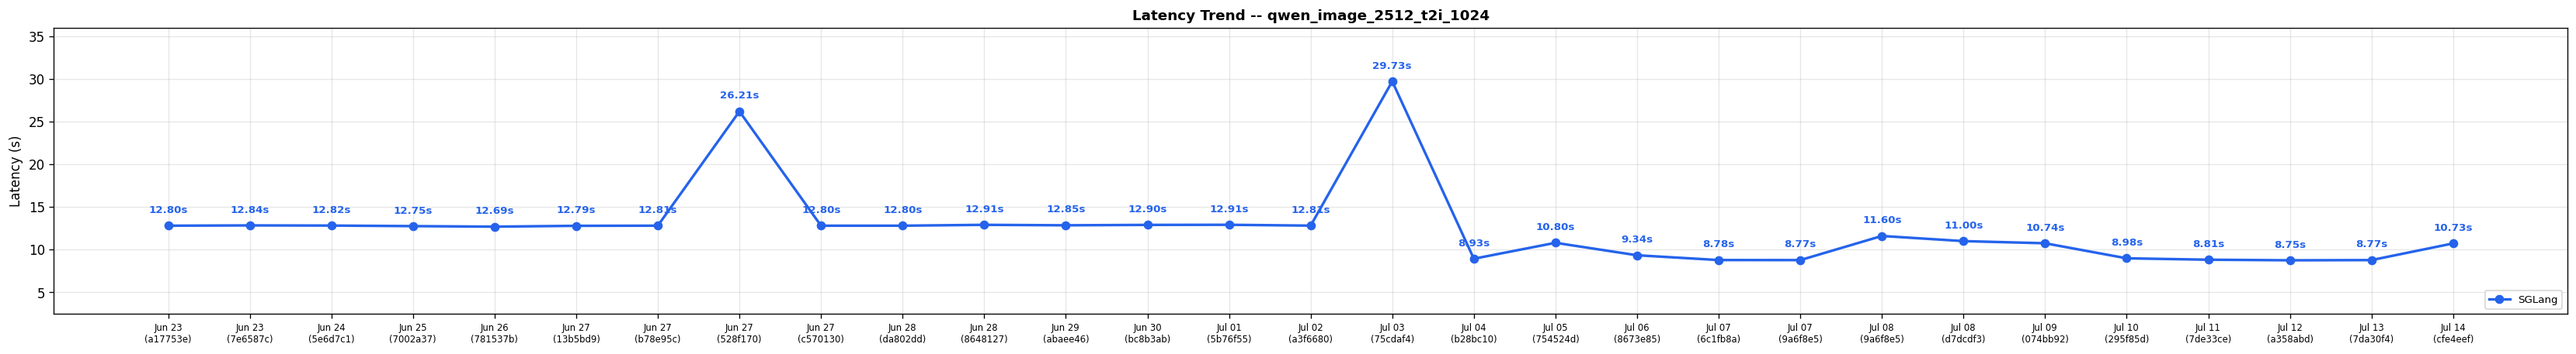
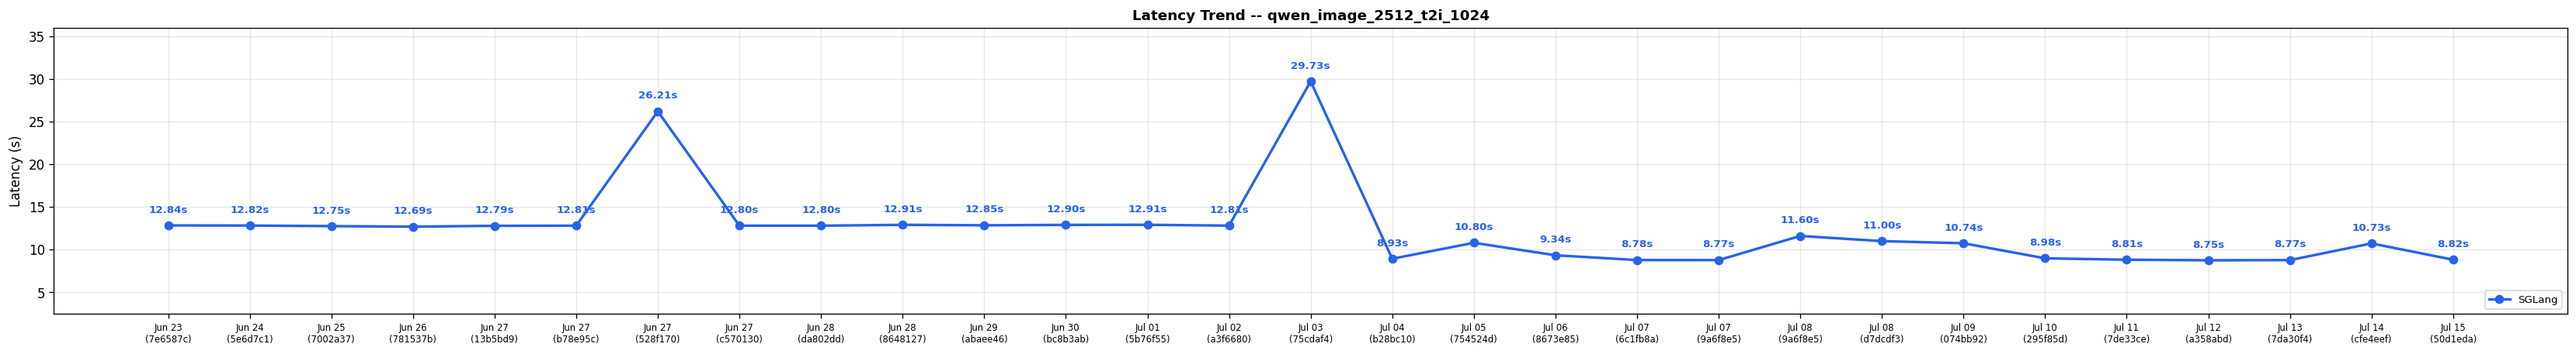
Diffusion comparison results for run 29379578503 (#716)

diff --git a/diffusion-comparisons/dashboard.md b/diffusion-comparisons/dashboard.md
@@ -1,29 +1,22 @@
 # SGLang-Diffusion Nightly Performance Dashboard
 
-*Generated: Jul 14 | Commit: `cfe4eef`*
-
-> [!WARNING]
-> **Performance Regression Detected**
->
-> - **qwen_image_2512_t2i_1024** (sglang): 8.77s -> 10.73s (+22.3%)
-> - **ltx2.3_twostage_ti2v_2gpus** (sglang): 13.05s -> 17.08s (+30.8%)
-
+*Generated: Jul 15 | Commit: `50d1eda`*
 
 ## SGLang-Diffusion Performance
 
 | Model | Risk | sglang (s) |
 |-------|------|---------|
-| FLUX.1-dev | ✅ | **4.87** |
-| FLUX.2-dev | ✅ | **14.47** |
-| Qwen-Image-2512 | ⚠ | **10.73** |
-| Qwen-Image-Edit-2511 | ✅ | **15.40** |
-| Z-Image-Turbo | ✅ | **0.84** |
-| Wan2.2-T2V-A14B-Diffusers | ✅ | **210.71** |
-| Wan2.2-TI2V-5B-Diffusers | ✅ | **65.23** |
-| LTX-2.3 | ⚠ | **17.08** |
-| ideogram-4-fp8 | ✅ | **5.36** |
-| Cosmos3-Super | ✅ | **115.38** |
-| Wan2.2-I2V-A14B-Diffusers | ✅ | **204.63** |
+| FLUX.1-dev | ✅ | **4.83** |
+| FLUX.2-dev | ✅ | **14.32** |
+| Qwen-Image-2512 | ✅ | **8.82** |
+| Qwen-Image-Edit-2511 | ✅ | **15.32** |
+| Z-Image-Turbo | ✅ | **0.82** |
+| Wan2.2-T2V-A14B-Diffusers | ✅ | **209.74** |
+| Wan2.2-TI2V-5B-Diffusers | ✅ | **64.24** |
+| LTX-2.3 | ✅ | **13.06** |
+| ideogram-4-fp8 | ✅ | **5.44** |
+| Cosmos3-Super | ✅ | **114.33** |
+| Wan2.2-I2V-A14B-Diffusers | ✅ | **203.70** |
 
 ### Latency Trend: flux1_dev_t2i_1024
 
@@ -84,6 +77,7 @@
 
 | Date | Commit | flux1_dev_t2i_1024 (s) | flux2_dev_t2i_1024 (s) | qwen_image_2512_t2i_1024 (s) | qwen_image_edit_2511 (s) | zimage_turbo_t2i_1024 (s) | wan22_t2v_a14b_720p (s) | wan22_ti2v_5b_720p (s) | ltx2.3_twostage_ti2v_2gpus (s) | ideogram4_fp8_t2i_2gpu (s) | cosmos3_super_t2v_2gpu (s) | wan22_i2v_a14b_720p (s) | Trend |
 |------|--------|---------|---------|---------|---------|---------|---------|---------|---------|---------|---------|---------|-------|
+| Jul 15 | `50d1eda` | 4.83 | 14.32 | 8.82 | 15.32 | 0.82 | 209.74 | 64.24 | 13.06 | 5.44 | 114.33 | 203.70 | :left_right_arrow:  :left_right_arrow:  :arrow_down:  :left_right_arrow:  :arrow_down:  :left_right_arrow:  :left_right_arrow:  :arrow_down:  :left_right_arrow:  :left_right_arrow:  :left_right_arrow: |
 | Jul 14 | `cfe4eef` | 4.87 | 14.47 | 10.73 | 15.40 | 0.84 | 210.71 | 65.23 | 17.08 | 5.36 | 115.38 | 204.63 | :left_right_arrow:  :left_right_arrow:  :arrow_up:  :left_right_arrow:  :arrow_up:  :left_right_arrow:  :left_right_arrow:  :arrow_up:  :left_right_arrow:  :left_right_arrow:  :left_right_arrow: |
 | Jul 13 | `7da30f4` | 4.83 | 14.38 | 8.77 | 15.27 | 0.81 | 209.59 | 64.19 | 13.05 | 5.31 | 115.36 | 204.64 | :left_right_arrow:  :left_right_arrow:  :left_right_arrow:  :left_right_arrow:  :left_right_arrow:  :left_right_arrow:  :left_right_arrow:  :left_right_arrow:  :left_right_arrow:  :left_right_arrow:  :left_right_arrow: |
 | Jul 12 | `a358abd` | 4.84 | 14.35 | 8.75 | 15.28 | 0.81 | 209.68 | 64.18 | 13.06 | 5.32 | 114.39 | 203.71 | :left_right_arrow:  :left_right_arrow:  :left_right_arrow:  :left_right_arrow:  :left_right_arrow:  :left_right_arrow:  :left_right_arrow:  :left_right_arrow:  :left_right_arrow:  :arrow_down:  :left_right_arrow: |
@@ -112,16 +106,7 @@
 | Jun 26 | `781537b` | 4.63 | 15.76 | 12.69 | 23.60 | 0.82 | 208.96 | 64.24 | 14.05 | N/A | N/A | 205.62 | :left_right_arrow:  :arrow_up:  :left_right_arrow:  :left_right_arrow:  :arrow_up:  :left_right_arrow:  :left_right_arrow:  :arrow_down:    :left_right_arrow: |
 | Jun 25 | `7002a37` | 4.68 | 14.32 | 12.75 | 23.62 | 0.66 | 209.34 | 64.22 | 15.06 | N/A | N/A | 204.64 | :left_right_arrow:  :left_right_arrow:  :left_right_arrow:  :left_right_arrow:  :arrow_up:  :left_right_arrow:  :left_right_arrow:  :arrow_up:    :left_right_arrow: |
 | Jun 24 | `5e6d7c1` | 4.68 | 14.36 | 12.82 | 23.75 | 0.64 | 209.73 | 65.22 | 14.06 | N/A | N/A | 205.65 | :left_right_arrow:  :left_right_arrow:  :left_right_arrow:  :left_right_arrow:  :left_right_arrow:  :left_right_arrow:  :left_right_arrow:  :left_right_arrow:    :left_right_arrow: |
-| Jun 23 | `7e6587c` | 4.68 | 14.35 | 12.84 | 23.79 | 0.64 | 209.91 | 65.20 | 14.05 | N/A | N/A | 205.65 | :left_right_arrow:  :left_right_arrow:  :left_right_arrow:  :left_right_arrow:  :left_right_arrow:  :left_right_arrow:  :left_right_arrow:  :left_right_arrow:    :left_right_arrow: |
-| Jun 23 | `a17753e` | 4.68 | 14.34 | 12.80 | 23.72 | 0.64 | 211.07 | 65.22 | 14.05 | N/A | N/A | 205.68 | -- |
-
-> [!CAUTION]
-> **Action Required — Performance Alert**
->
-> The following cases need attention:
-> - qwen_image_2512_t2i_1024: SGLang regression +22.2% vs 3-run avg (10.73s vs 8.78s)
-> - ltx2.3_twostage_ti2v_2gpus: SGLang regression +30.8% vs 3-run avg (17.08s vs 13.06s)
-
+| Jun 23 | `7e6587c` | 4.68 | 14.35 | 12.84 | 23.79 | 0.64 | 209.91 | 65.20 | 14.05 | N/A | N/A | 205.65 | -- |
 
 ---
 *Generated by `generate_diffusion_dashboard.py` in SGLang nightly CI.*
